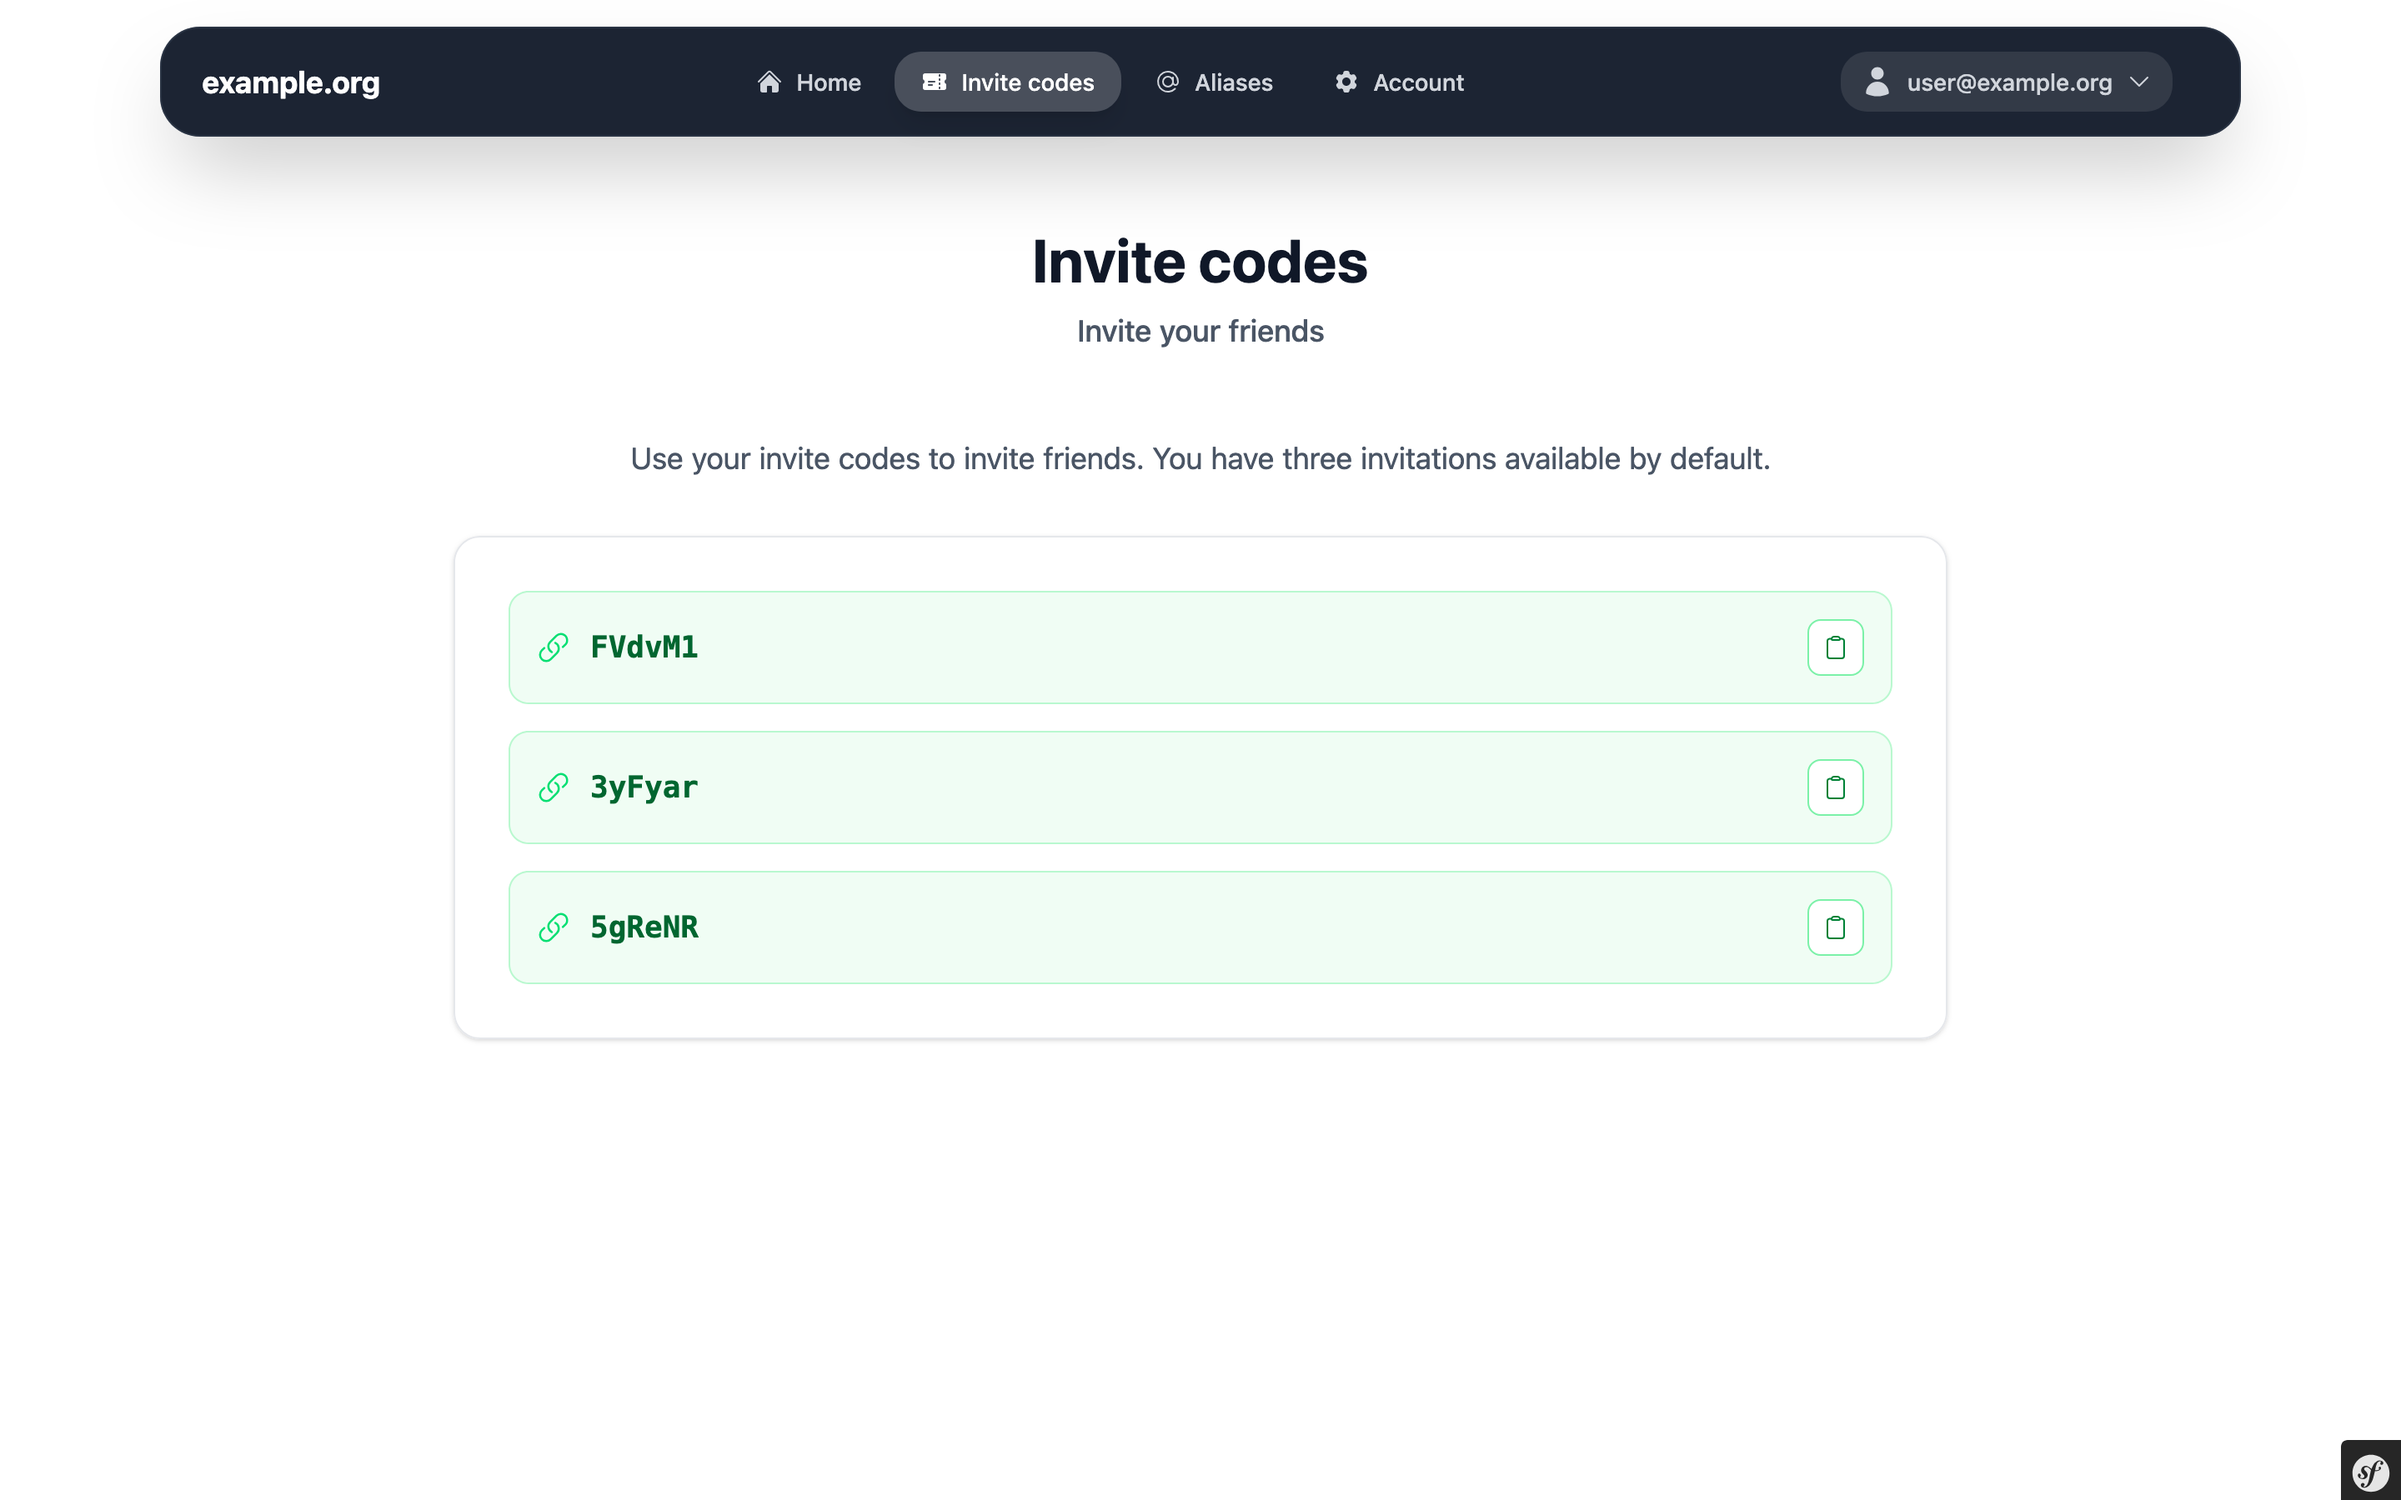
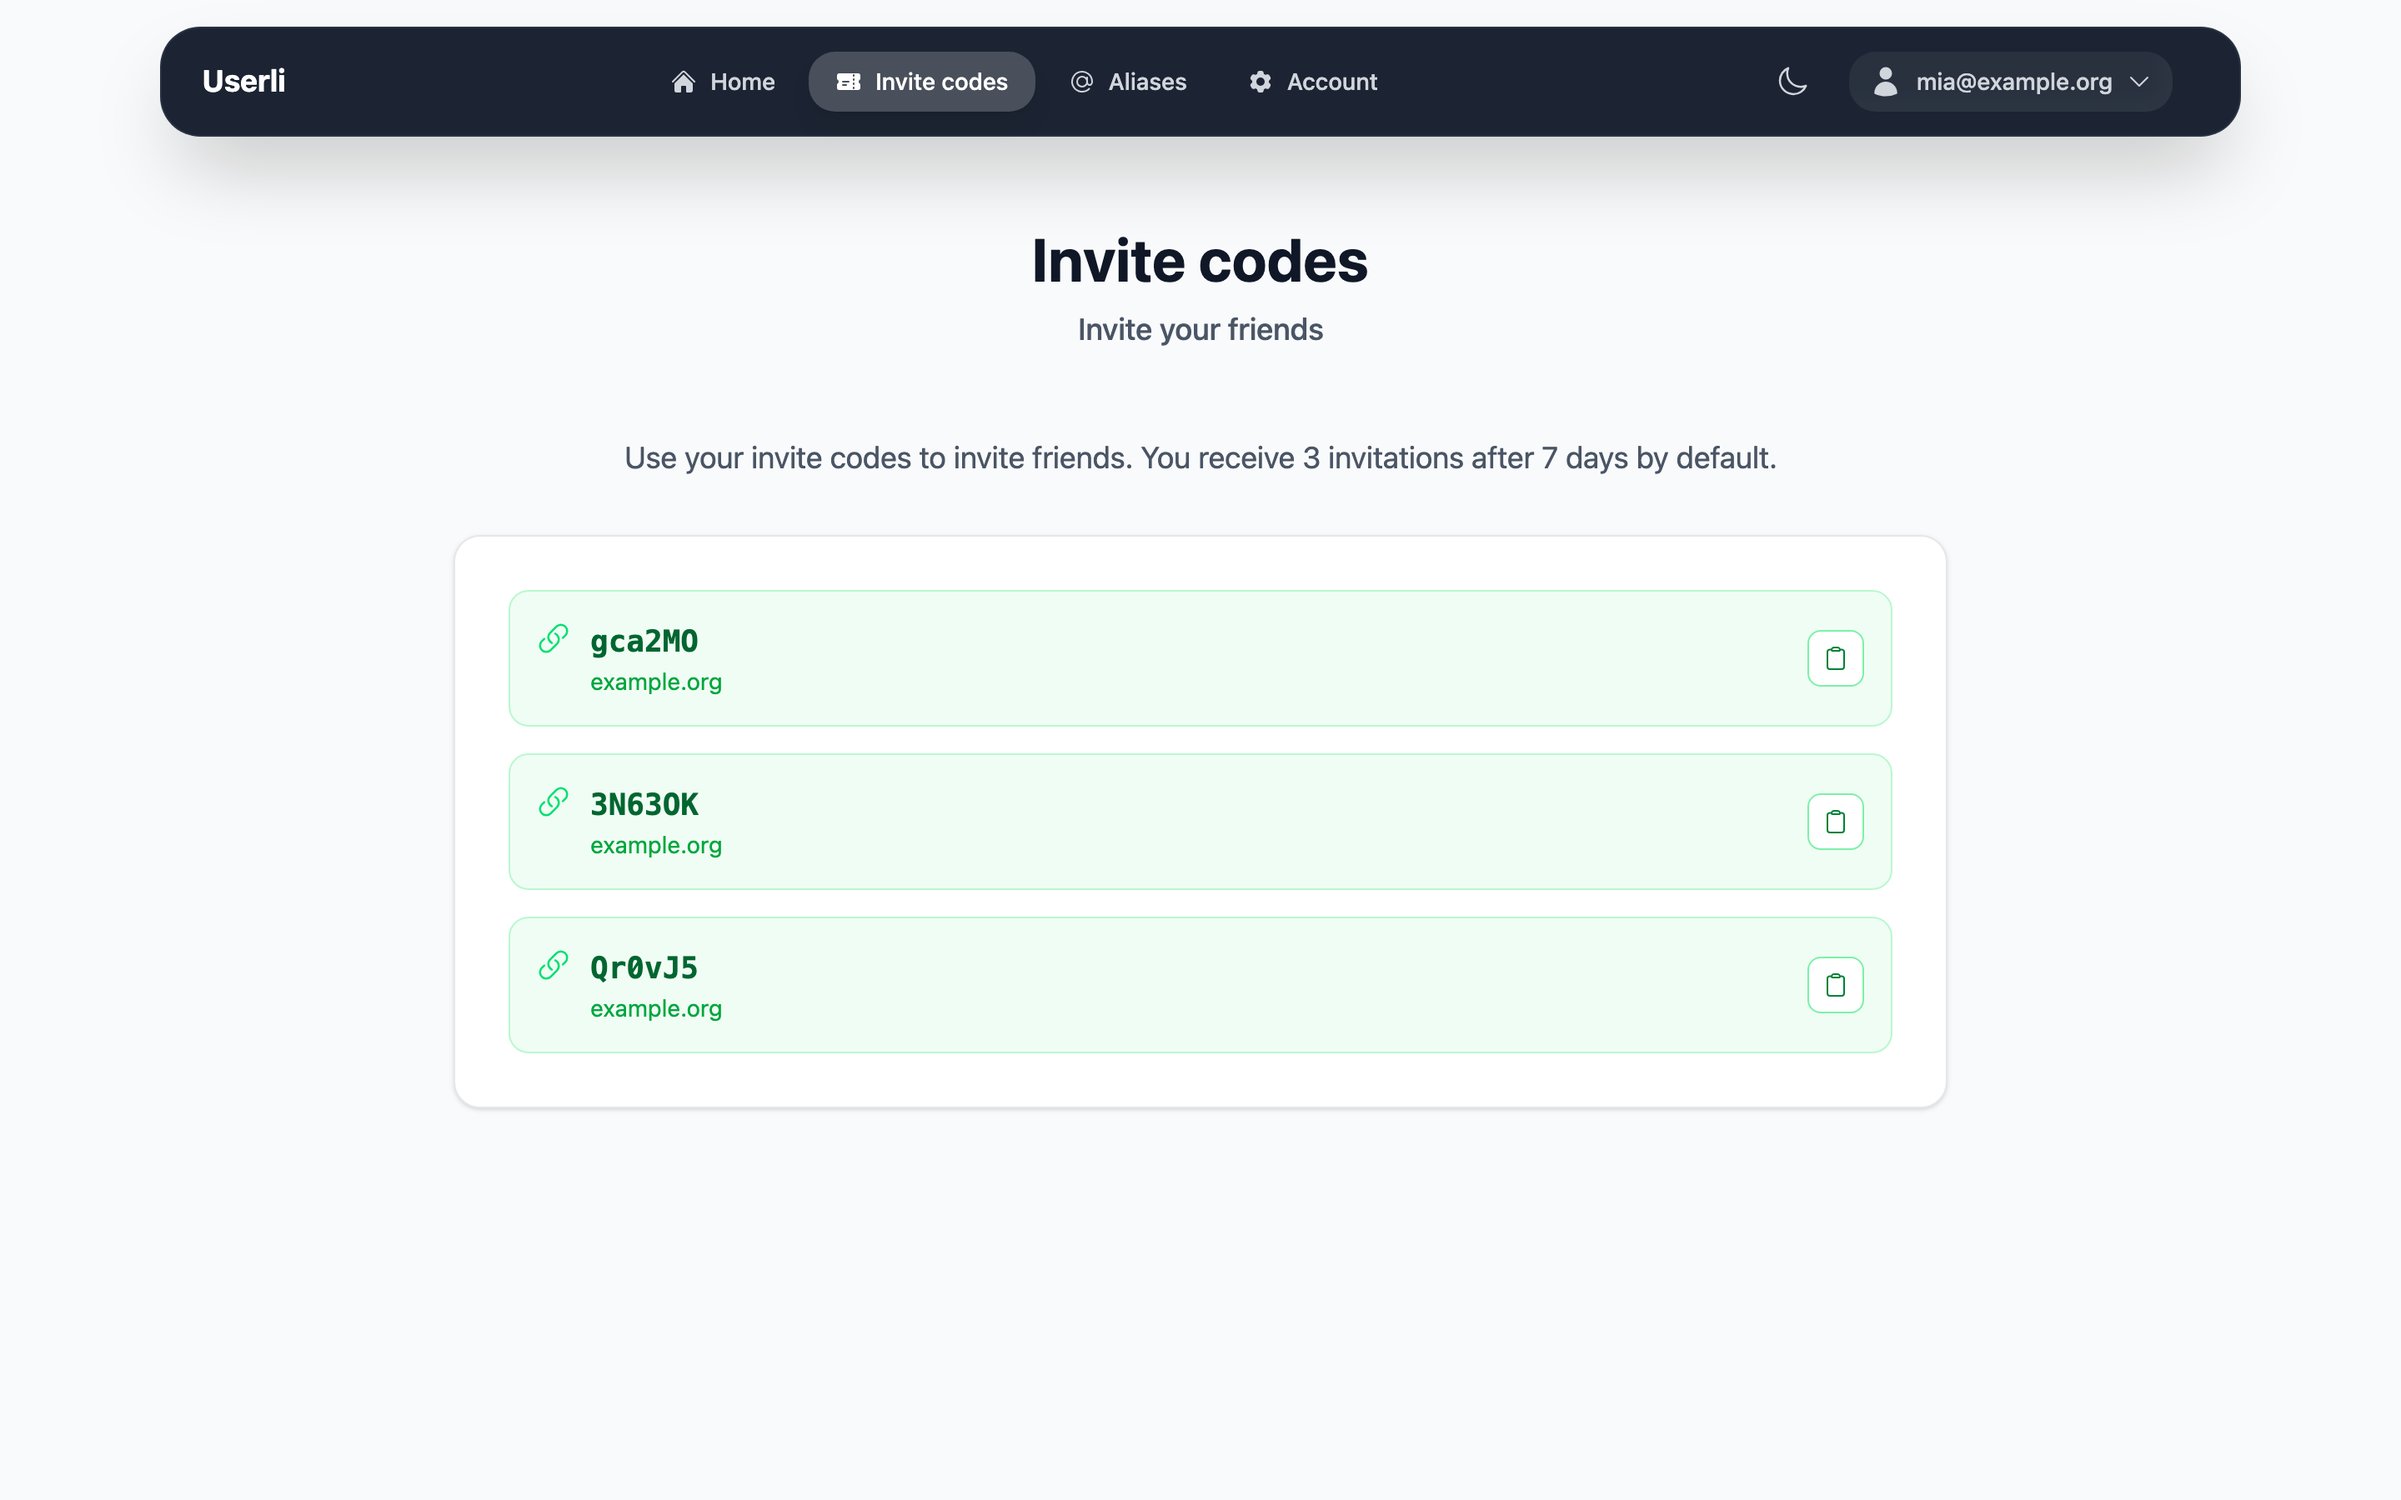
📝 Update screenshots and add admin guide
Retake all screenshots in light mode at 2x resolution and add screenshots
for the new account pages. Add an admin guide covering every admin page.

diff --git a/docs/admin/index.md b/docs/admin/index.md
@@ -1,0 +1,135 @@
+# Admin Guide
+
+Userli ships with an admin interface for managing users, aliases, domains and
+global settings. It is available under `/admin/` for users with the role
+`ROLE_ADMIN` (and, with reduced scope, `ROLE_DOMAIN_ADMIN`). Once logged in,
+use the **Admin** entry in the top navigation to open it.
+
+The sidebar groups all admin pages into *Management*, *Configuration* and
+*System*.
+
+!!! tip
+
+    The screenshots below were taken with the example data from `make fixtures`.
+    See the [development setup](../development/index.md) to try it yourself.
+
+## Dashboard
+
+The dashboard gives an overview of the system: number of users, new accounts
+and active users in the last 7 and 30 days, aliases, domains, invite codes and
+published OpenPGP keys.
+
+![Dashboard](../assets/images/admin-dashboard.png){class="screenshot"}
+
+## Management
+
+### Users
+
+List, search, create, edit and delete user accounts. The list can be filtered
+by domain, status (active/deleted), role, MailCrypt and 2FA state. Each row
+shows the roles, whether 2FA and MailCrypt are enabled and the account status.
+The actions per row are *show*, *edit* and *delete*. Deleted users can be
+restored.
+
+![Users](../assets/images/admin-users.png){class="screenshot"}
+
+Available roles:
+
+| Role                | Description                                          |
+|---------------------|------------------------------------------------------|
+| `ROLE_USER`         | Regular user                                         |
+| `ROLE_ADMIN`        | Full access to the admin interface                   |
+| `ROLE_DOMAIN_ADMIN` | Administrates the users and aliases of its own domain |
+| `ROLE_SUSPICIOUS`   | Marks an account as suspicious; its invite codes are no longer valid |
+| `ROLE_SPAM`         | Marks an account as spam sender (shown in the user list) |
+| `ROLE_PERMANENT`    | Account is excluded from the removal of inactive users |
+| `ROLE_MULTIPLIER`   | May create invite codes on demand, no waiting period|
+
+### Aliases
+
+Manage the email aliases (source and destination address) of all users. Aliases
+can be filtered by domain and status.
+
+![Aliases](../assets/images/admin-aliases.png){class="screenshot"}
+
+### OpenPGP Keys
+
+Read-only list of the OpenPGP keys published via the
+[Web Key Directory](../features/wkd.md). Use the search to find keys by email
+address or domain.
+
+![OpenPGP keys](../assets/images/admin-openpgp-keys.png){class="screenshot"}
+
+### Invite Codes
+
+Create and delete invite codes (vouchers) for the registration. The list shows
+the code, the user who owns it, the domain and whether it is already redeemed.
+
+![Invite codes](../assets/images/admin-vouchers.png){class="screenshot"}
+
+## Configuration
+
+### Domains
+
+Add the email domains that are managed by Userli. The domain with the lowest ID
+(the first one created) acts as the default domain.
+
+![Domains](../assets/images/admin-domains.png){class="screenshot"}
+
+Per domain you can enable invitations. Registration with an invite code only
+works for domains with invitations enabled; otherwise users see a "Registration
+closed" page. Optionally users receive invite codes automatically after a
+waiting period.
+
+![Edit domain](../assets/images/admin-domain-edit.png){class="screenshot"}
+
+### Reserved Names
+
+Local parts (the part before the `@`) that cannot be used for registration, for
+example `admin` or `abuse`. Names can be added one by one, imported from a file
+and exported.
+
+![Reserved names](../assets/images/admin-reserved-names.png){class="screenshot"}
+
+### Notifications
+
+Log of notifications that Userli has sent to users, for example when a
+password was found in a database of compromised passwords. Filter by type or
+search by email address.
+
+![Notifications](../assets/images/admin-notifications.png){class="screenshot"}
+
+## System
+
+### Settings
+
+Global settings that are stored in the database, such as application name and
+URL, webmail URL, email sender addresses, SMTP quotas, MailCrypt and
+[MTA-STS](../features/mta-sts.md). Changes apply immediately.
+
+![Settings](../assets/images/admin-settings.png){class="screenshot"}
+
+### API Tokens
+
+Create tokens for the [integrations](../features/integrations.md). Every token
+has one or more scopes (`keycloak`, `dovecot`, `postfix`, `retention`,
+`roundcube`). A token is only shown once when it is created.
+
+![API tokens](../assets/images/admin-api-tokens.png){class="screenshot"}
+
+### Webhooks
+
+Configure [webhooks](../features/webhooks.md) that are called on the events
+`user.created`, `user.deleted` and `user.reset`, optionally limited to certain
+domains. Use the *send* action to test an endpoint and inspect the deliveries
+of an endpoint.
+
+![Webhooks](../assets/images/admin-webhooks.png){class="screenshot"}
+
+### Maintenance
+
+Run maintenance tasks on demand, for example pruning old user notifications and
+webhook deliveries, removing inactive users or cleaning up invite codes. The
+same tasks are also executed regularly by the scheduler.
+
+![Maintenance](../assets/images/admin-maintenance.png){class="screenshot"}

diff --git a/docs/screenshots/index.md b/docs/screenshots/index.md
@@ -10,6 +10,14 @@ Here you can find screenshots of the web interface of Userli.
 
 ![register](../assets/images/register.png){class="screenshot"}
 
+## Recovery token after registration
+
+![new_recovery_token](../assets/images/new_recovery_token.png){class="screenshot"}
+
+## Welcome
+
+![welcome](../assets/images/welcome.png){class="screenshot"}
+
 ## Login
 
 ![login](../assets/images/login.png){class="screenshot"}
@@ -30,7 +38,17 @@ Here you can find screenshots of the web interface of Userli.
 
 ![manage_recovery_token](../assets/images/manage_recovery_token.png){class="screenshot"}
 
-![new_recovery_token](../assets/images/new_recovery_token.png){class="screenshot"}
+## Account settings - Password
+
+![password](../assets/images/password.png){class="screenshot"}
+
+## Account settings - Two-factor authentication
+
+![twofactor](../assets/images/twofactor.png){class="screenshot"}
+
+## Account settings - OpenPGP keys
+
+![openpgp](../assets/images/openpgp.png){class="screenshot"}
 
 ## Password Recovery
 
@@ -38,4 +56,6 @@ Here you can find screenshots of the web interface of Userli.
 
 ## Admin Frontend
 
-![admin](../assets/images/admin.png){class="screenshot"}
+![admin](../assets/images/admin-dashboard.png){class="screenshot"}
+
+See the [Admin Guide](../admin/index.md) for all admin pages.
